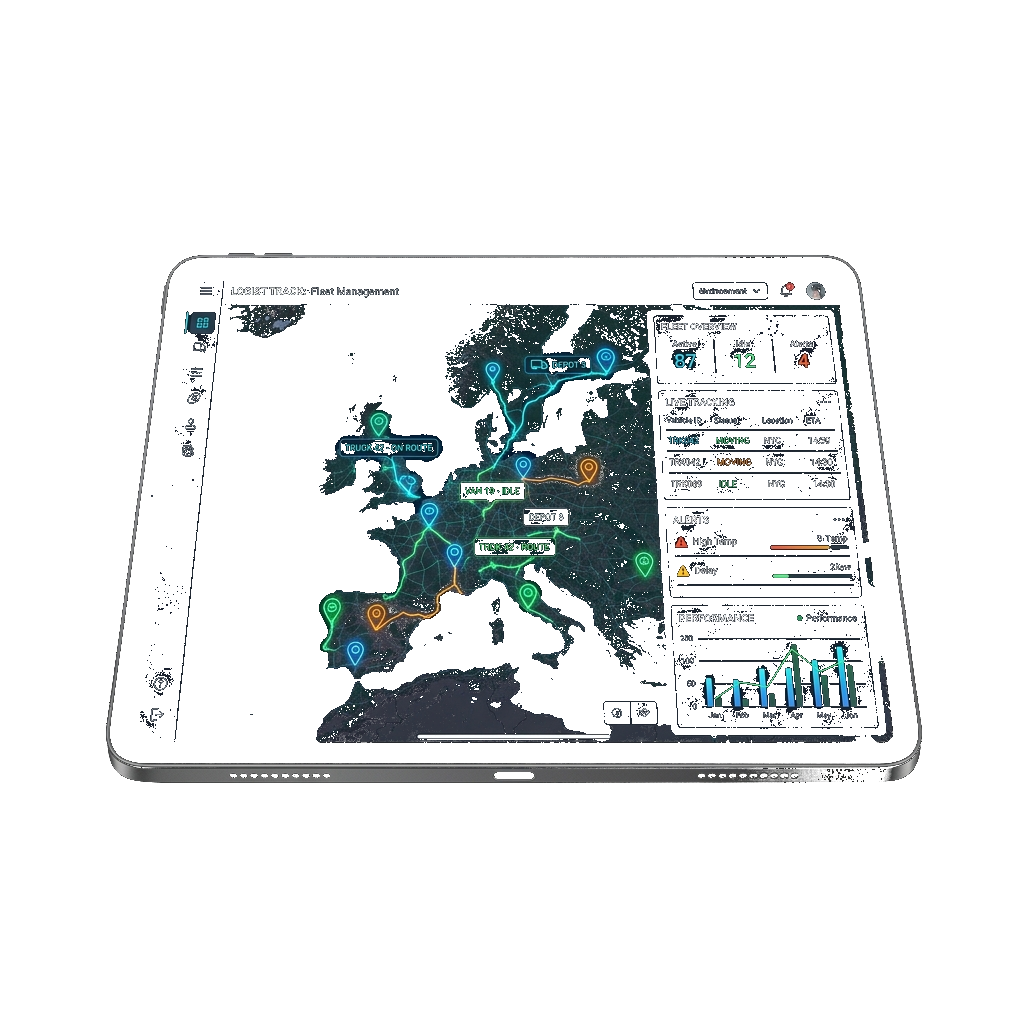
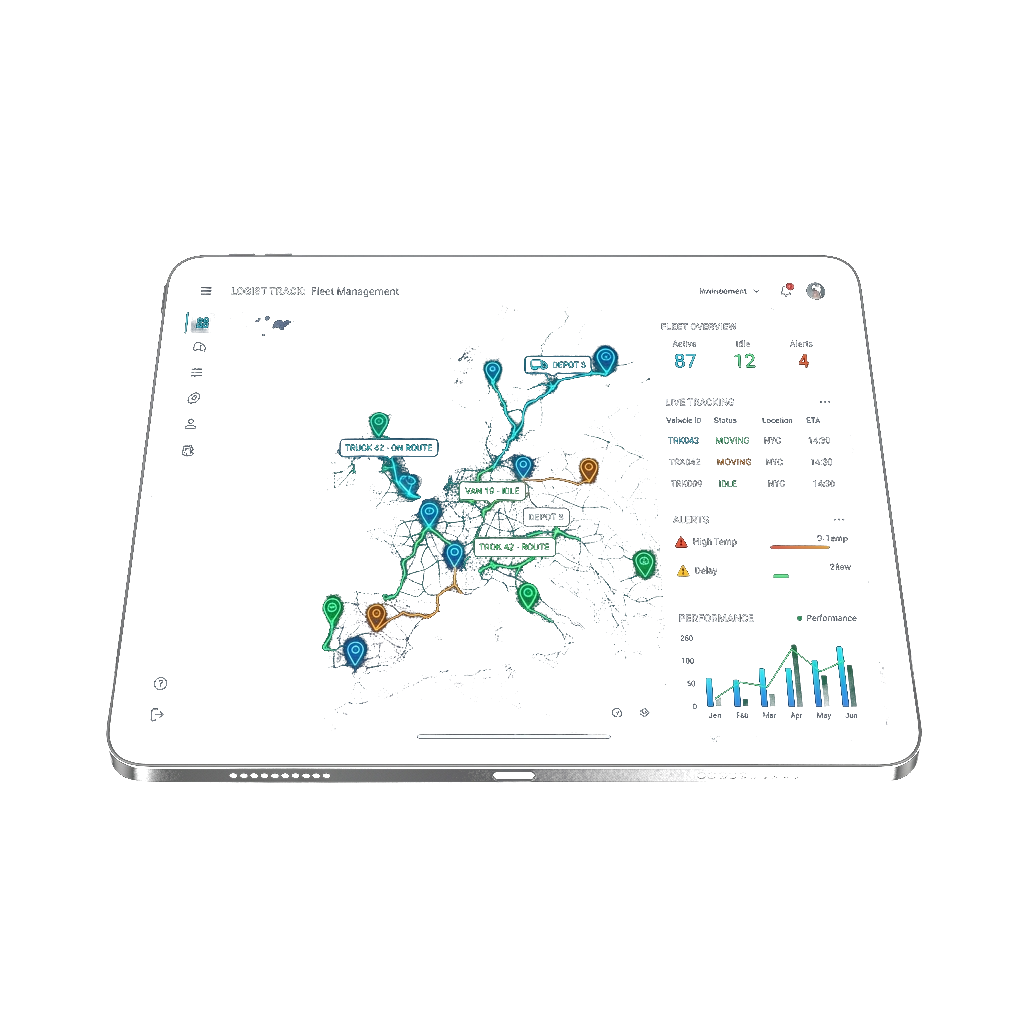
fix: aggressive bg removal (threshold 75), early device fade-out (20-35%), 30vh buffer spacer between sections, z-index layering to prevent clipping

diff --git a/src/components/landing/Hero.tsx b/src/components/landing/Hero.tsx
@@ -8,24 +8,26 @@ export function Hero() {
     offset: ["start start", "end start"]
   });
 
-  const textY = useTransform(scrollYProgress, [0, 0.3], ["0%", "50%"]);
-  const textOpacity = useTransform(scrollYProgress, [0, 0.25], [1, 0]);
+  const textY = useTransform(scrollYProgress, [0, 0.25], ["0%", "50%"]);
+  const textOpacity = useTransform(scrollYProgress, [0, 0.2], [1, 0]);
 
-  // Devices animation
-  const scale = useTransform(scrollYProgress, [0, 0.5], [1, 1.3]);
-  const macX = useTransform(scrollYProgress, [0, 0.5], ["0%", "-15%"]);
-  const ipadX = useTransform(scrollYProgress, [0, 0.5], ["0%", "10%"]);
-  const iphoneX = useTransform(scrollYProgress, [0, 0.5], ["0%", "20%"]);
-  const iphoneY = useTransform(scrollYProgress, [0, 0.5], ["0%", "10%"]);
-  // Fade devices out well before the section ends so they never get clipped
-  const mockupOpacity = useTransform(scrollYProgress, [0.3, 0.5], [1, 0]);
+  // Devices animation — fade out VERY early so they're gone long before section ends
+  const scale = useTransform(scrollYProgress, [0, 0.35], [1, 1.15]);
+  const macX = useTransform(scrollYProgress, [0, 0.35], ["0%", "-10%"]);
+  const ipadX = useTransform(scrollYProgress, [0, 0.35], ["0%", "8%"]);
+  const iphoneX = useTransform(scrollYProgress, [0, 0.35], ["0%", "15%"]);
+  const iphoneY = useTransform(scrollYProgress, [0, 0.35], ["0%", "5%"]);
+  // Fade out completely between 20% and 35% scroll progress
+  // With 300vh section, that's 60vh-105vh of scrolling — devices gone by 105vh
+  // Next section starts at 300vh — huge 195vh buffer of empty space
+  const mockupOpacity = useTransform(scrollYProgress, [0.2, 0.35], [1, 0]);
 
   return (
-    <section ref={containerRef} className="relative h-[300vh] w-full">
-      <div className="sticky top-0 h-screen w-full flex flex-col items-center justify-center pt-32 px-6 overflow-visible">
+    <section ref={containerRef} className="relative h-[300vh] w-full" style={{ zIndex: 10 }}>
+      <div className="sticky top-0 h-screen w-full flex flex-col items-center justify-center pt-32 px-6" style={{ overflow: "visible" }}>
         <motion.div 
-          className="max-w-4xl mx-auto text-center z-10 mt-32 md:mt-40"
-          style={{ y: textY, opacity: textOpacity }}
+          className="max-w-4xl mx-auto text-center mt-32 md:mt-40"
+          style={{ y: textY, opacity: textOpacity, zIndex: 10 }}
           initial={{ y: 30, opacity: 0 }}
           animate={{ y: 0, opacity: 1 }}
           transition={{ duration: 1, ease: [0.16, 1, 0.3, 1] }}
@@ -38,10 +40,10 @@ export function Hero() {
           </p>
         </motion.div>
 
-        {/* Mockup Container - NO mix-blend-screen, images now have real transparency */}
+        {/* Mockup Container — images have real PNG transparency, no blend modes */}
         <motion.div 
-          className="mt-12 md:mt-16 w-full max-w-6xl max-md:h-[320px] md:aspect-[21/9] mx-auto z-20 flex justify-center relative"
-          style={{ scale, perspective: "2000px", opacity: mockupOpacity }}
+          className="mt-12 md:mt-16 w-full max-w-6xl max-md:h-[320px] md:aspect-[21/9] mx-auto flex justify-center relative"
+          style={{ scale, perspective: "2000px", opacity: mockupOpacity, zIndex: 20 }}
         >
           {/* MacBook Mockup */}
           <motion.div 

diff --git a/src/components/landing/FeatureShowcase.tsx b/src/components/landing/FeatureShowcase.tsx
@@ -18,7 +18,7 @@ export function FeatureShowcase() {
   const card2Opacity = useTransform(scrollYProgress, [0.3, 0.5, 0.8, 1], [0, 1, 1, 0]);
 
   return (
-    <section ref={containerRef} className="relative h-[300vh] w-full">
+    <section ref={containerRef} className="relative h-[300vh] w-full" style={{ zIndex: 20 }}>
       <div className="sticky top-0 h-screen w-full flex flex-col md:flex-row items-center justify-center px-6 md:px-12 max-w-7xl mx-auto">
         
         {/* Pinned Text */}

diff --git a/src/components/landing/LandingPage.tsx b/src/components/landing/LandingPage.tsx
@@ -14,6 +14,8 @@ export function LandingPage() {
       <FloatingNav activeTab="home" />
       <main>
         <Hero />
+        {/* Buffer space so devices in Hero never get cut by next section */}
+        <div className="h-[30vh] w-full" />
         <FeatureShowcase />
         <BentoGrid />
       </main>

diff --git a/remove_bg.py b/remove_bg.py
@@ -1,51 +1,44 @@
 """
 Remove dark/black backgrounds from device mockup images,
-making those pixels fully transparent.
+making those pixels fully transparent. Using aggressive threshold.
 """
 from PIL import Image
 import numpy as np
-import sys
 
-def remove_dark_background(input_path, output_path, threshold=45):
+def remove_dark_background(input_path, output_path, threshold=75):
     """
-    Convert all pixels where R, G, and B are ALL below `threshold`
-    to fully transparent. This removes dark/black backgrounds
-    while preserving the device and its screen content.
+    Convert all pixels where R, G, and B are ALL below threshold
+    to fully transparent. Higher threshold = more aggressive removal.
     """
     img = Image.open(input_path).convert("RGBA")
     data = np.array(img)
     
-    # Find pixels where R, G, B are all below threshold (dark/black areas)
-    r, g, b, a = data[:, :, 0], data[:, :, 1], data[:, :, 2], data[:, :, 3]
-    dark_mask = (r < threshold) & (g < threshold) & (b < threshold)
+    r, g, b, a = data[:,:,0], data[:,:,1], data[:,:,2], data[:,:,3]
     
-    # Make those pixels transparent
+    # Core dark area: make fully transparent
+    dark_mask = (r < threshold) & (g < threshold) & (b < threshold)
     data[dark_mask, 3] = 0
     
-    # For pixels near the threshold boundary, apply gradual transparency
-    # to create a smooth edge (anti-aliasing)
-    edge_low = threshold
-    edge_high = threshold + 20
+    # Smooth edge transition for anti-aliasing
+    edge_high = threshold + 25
     edge_mask = (
-        (r >= edge_low) & (r < edge_high) &
-        (g >= edge_low) & (g < edge_high) &
-        (b >= edge_low) & (b < edge_high)
+        ~dark_mask &
+        (r < edge_high) & (g < edge_high) & (b < edge_high)
     )
-    # Calculate brightness for edge pixels
-    brightness = np.maximum(np.maximum(r, g), b)
-    edge_alpha = ((brightness.astype(float) - edge_low) / (edge_high - edge_low) * 255).clip(0, 255).astype(np.uint8)
+    brightness = np.maximum(np.maximum(r, g), b).astype(float)
+    edge_alpha = ((brightness - threshold) / (edge_high - threshold) * 255).clip(0, 255).astype(np.uint8)
     data[edge_mask, 3] = edge_alpha[edge_mask]
     
     result = Image.fromarray(data)
     result.save(output_path, "PNG")
-    print(f"Done: {input_path} -> {output_path}")
+    print(f"Done: {input_path} -> {output_path} (threshold={threshold})")
 
 if __name__ == "__main__":
     images = [
-        ("public/images/macbook_hardware.png", "public/images/macbook_hardware.png"),
-        ("public/images/ipad_hardware.png", "public/images/ipad_hardware.png"),
-        ("public/images/iphone_hardware.png", "public/images/iphone_hardware.png"),
+        "public/images/macbook_hardware.png",
+        "public/images/ipad_hardware.png",
+        "public/images/iphone_hardware.png",
     ]
-    for inp, out in images:
-        remove_dark_background(inp, out)
-    print("All images processed successfully!")
+    for path in images:
+        remove_dark_background(path, path)
+    print("All done!")